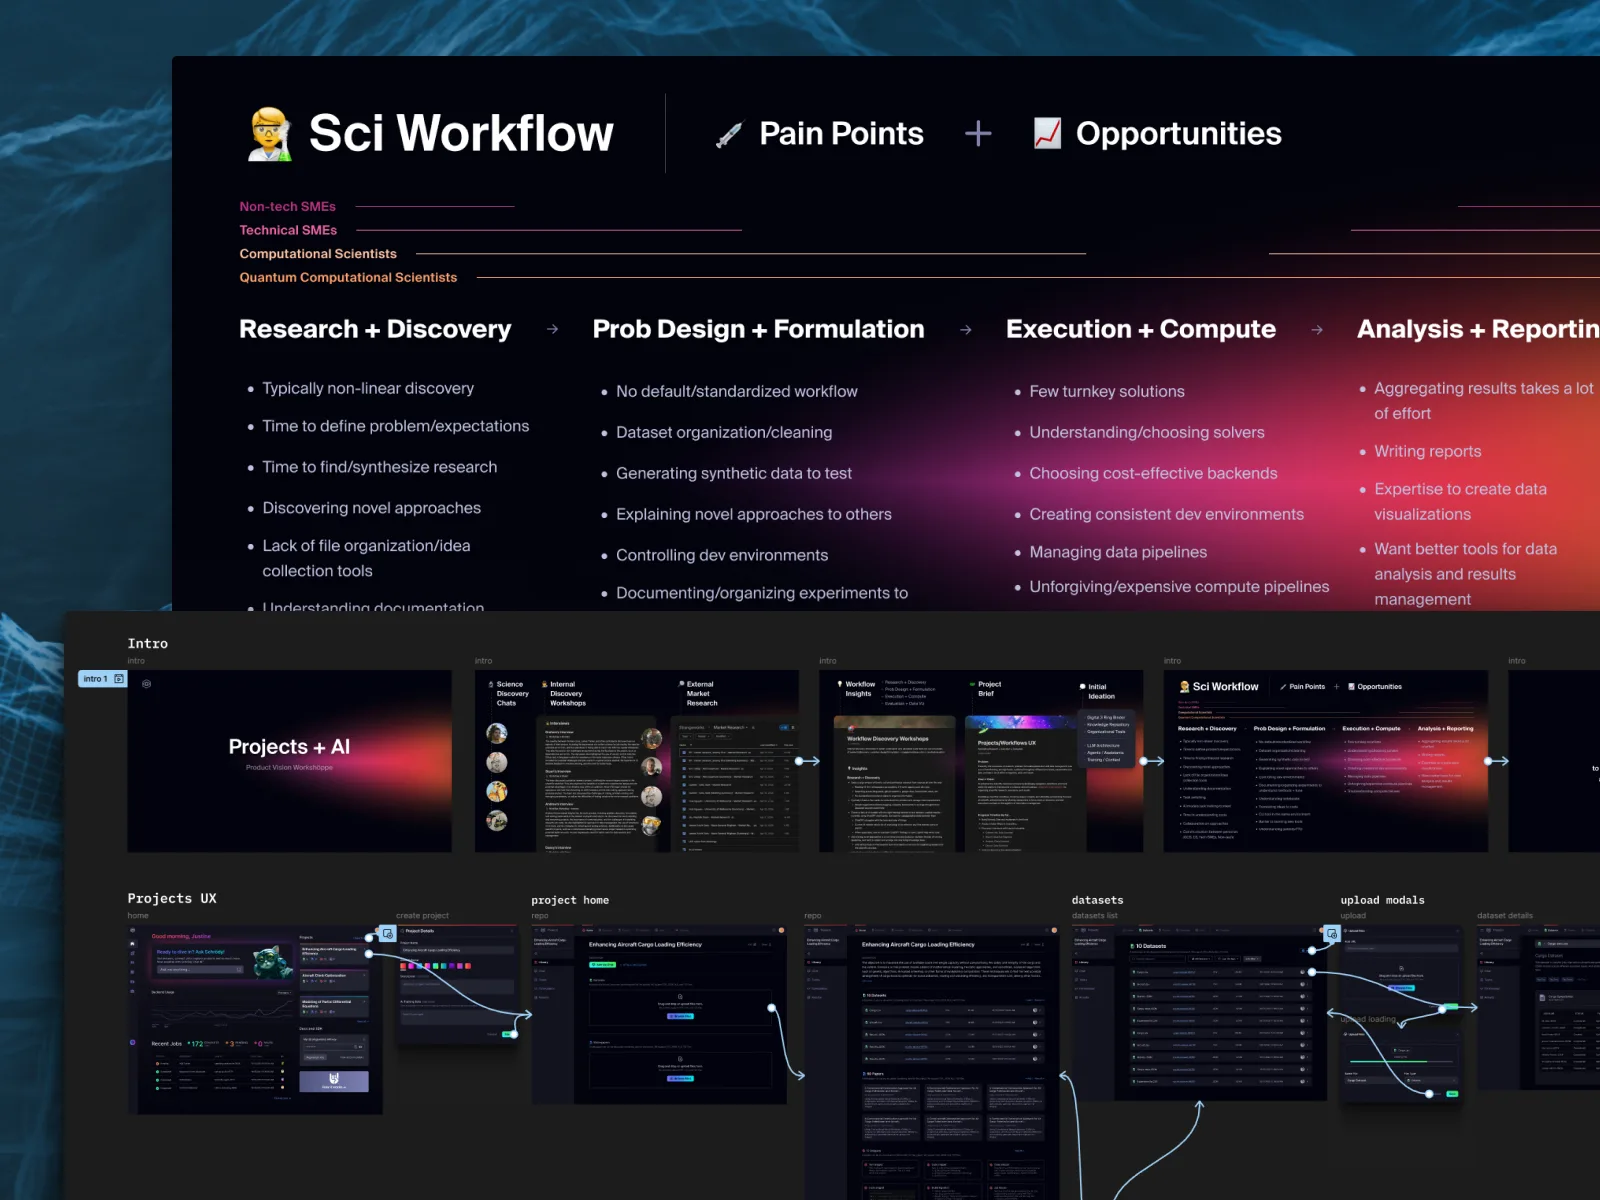
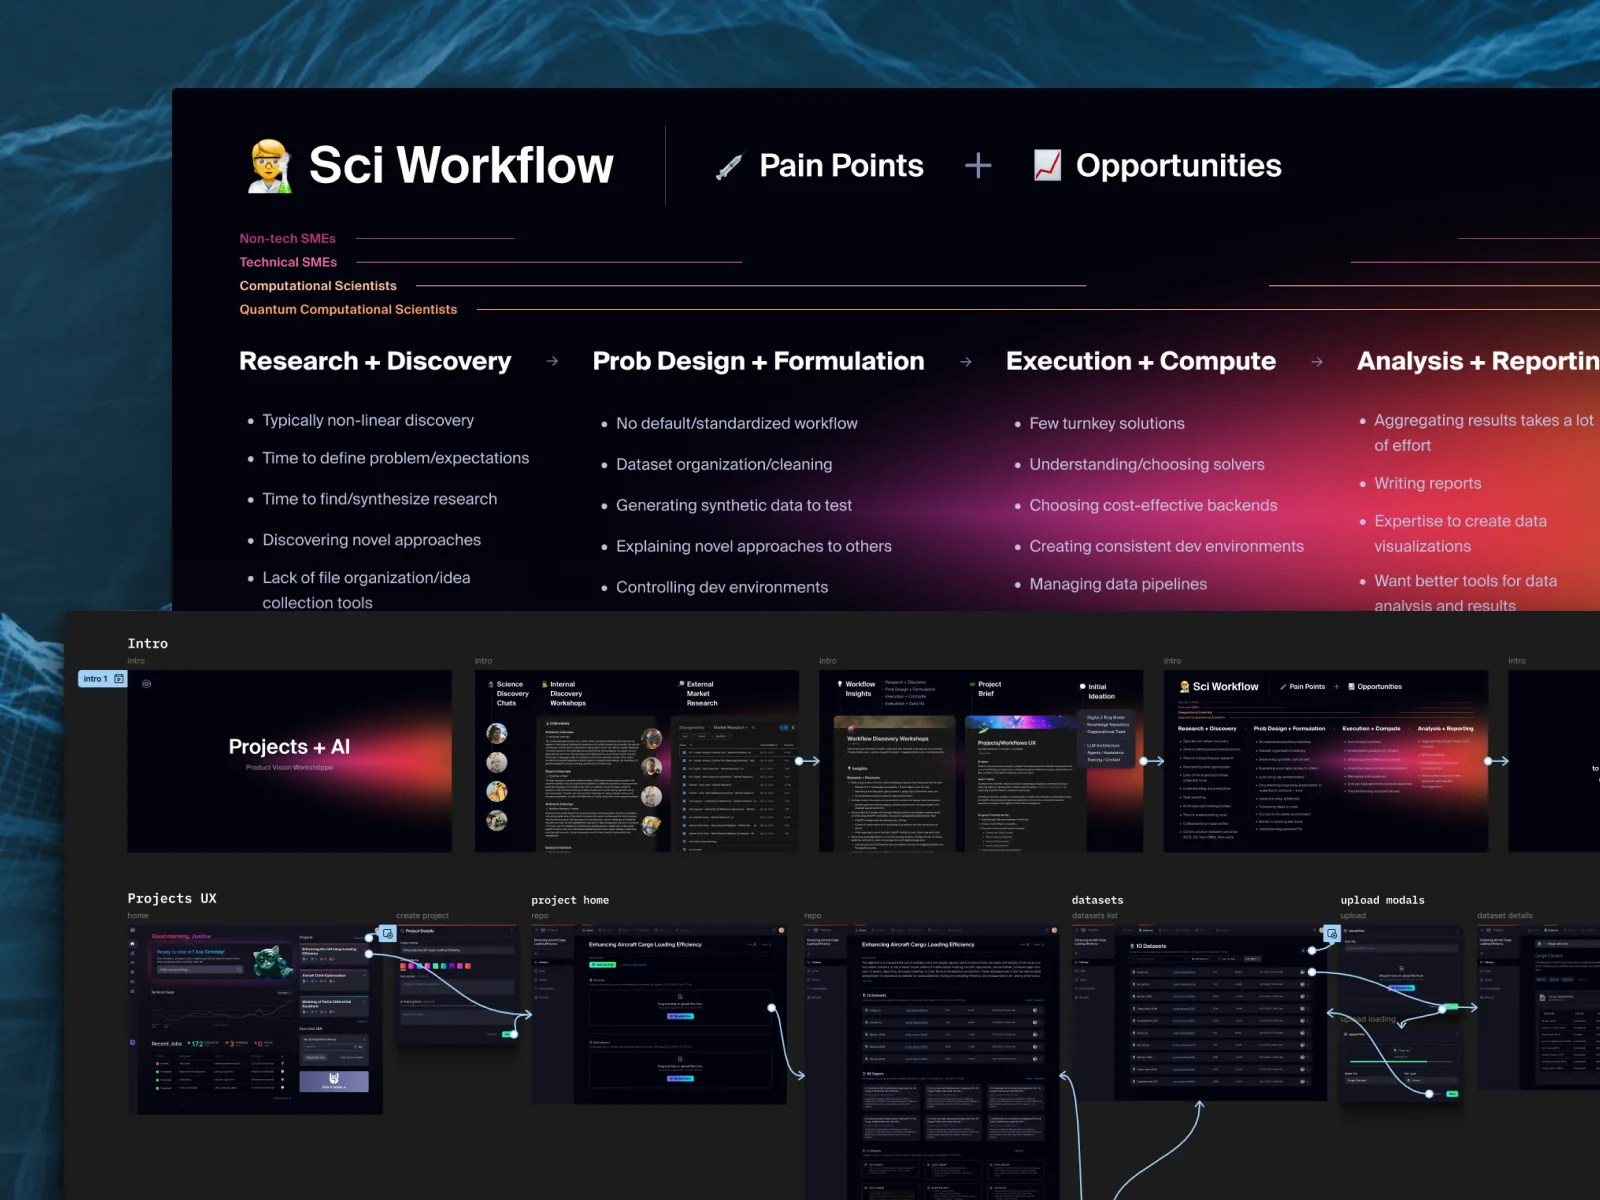
Merge the flow and front-end chapters, tighten the built-for header
The end-to-end flow was an alignment artifact more than a phase of its
own, and the build was already underway beside it, so the two become
one chapter and the page drops to seven. Adds the framed flow comp to
the wireframes pair, and pulls in the tracking and padding on the
built-for header.

Changed region(s): [[0.0938, 0.0308, 1.0, 0.5242]]

diff --git a/components/case-studies/AuraCaseStudy.tsx b/components/case-studies/AuraCaseStudy.tsx
@@ -124,8 +124,8 @@ const AuraCaseStudy = () => {
       <AnimatedSection className="grid grid-cols-1 gap-8 pt-28">
         <div className="col-span-full w-full lg:w-[80%] mx-auto grid grid-cols-1 lg:grid-cols-2 gap-12 items-start">
           <InfoCard>
-            <div className="mb-4 flex items-start justify-between gap-4">
-              <div className="flex items-center gap-4">
+            <div className="mb-3 flex items-start justify-between gap-4">
+              <div className="flex items-center gap-3.5">
                 <Image
                   src="/imgs/dave.jpg"
                   alt="Dave Keller"
@@ -135,16 +135,16 @@ const AuraCaseStudy = () => {
                   priority
                 />
                 <div>
-                  <p className="font-mono text-xs uppercase tracking-[0.3em] text-white/40">
+                  <p className="font-mono text-[0.7rem] uppercase tracking-[0.14em] text-white/40">
                     built for
                   </p>
-                  <h2 className="mt-1 text-xl md:text-2xl font-bold text-white text-balance">
+                  <h2 className="mt-0.5 text-xl md:text-2xl font-bold tracking-tight text-white text-balance">
                     Lucy and the Slalom team
                   </h2>
                 </div>
               </div>
-              <div className="flex shrink-0 flex-col items-end gap-2 pt-0.5">
-                <p className="font-mono text-[0.7rem] uppercase tracking-[0.2em] text-white/35">
+              <div className="flex shrink-0 flex-col items-end gap-1.5">
+                <p className="font-mono text-[0.7rem] uppercase tracking-[0.1em] text-white/35">
                   August 11, 2026
                 </p>
                 <SlalomMark className="h-9 w-auto text-white md:h-11" />
@@ -183,7 +183,7 @@ const AuraCaseStudy = () => {
             </p>
             <div className="w-full border-b-2 border-white/20 mb-6"></div>
             <ul className="list-none space-y-4 w-full">
-              <li className={bullet}>Sketched the narrative first — the same eight beats I&apos;d walk through in an interview</li>
+              <li className={bullet}>Sketched the narrative first — the same seven beats I&apos;d walk through in an interview</li>
               <li className={bullet}>Spun up a git worktree off my portfolio repo and opened a draft PR to work in</li>
               <li className={bullet}>Built it in Next.js, Tailwind, and Framer Motion, designing in Claude Code against a live dev server</li>
               <li className={bullet}>Art-directed the visuals from the original Figma boards and the product repos themselves</li>
@@ -310,68 +310,26 @@ const AuraCaseStudy = () => {
         />
         <CaseImage
           className="col-span-1 lg:col-span-3"
-          src="/imgs/strangeworks/strange2.webp"
-          alt="Figma wireframe and flow template library, zoomed out"
+          src="/imgs/aura/wireframes-flow.webp"
+          alt="Prototype flow board — projects, research and methods, formulation, and solvers"
         />
       </AnimatedSection>
 
       <AnimatedBreak />
 
-      {/* 03 THE END-TO-END FLOW */}
+      {/* 03 THE FLOW AND THE FRONT-END */}
       <AnimatedSection className="grid grid-cols-1 lg:grid-cols-6 gap-12 items-center">
         <ChapterHeader
           index="03"
-          title="the end-to-end flow"
-          kicker="designing an agent-run workflow in Figma, before the models could actually run it"
-        />
-        <div className="col-span-full w-full lg:w-[80%] mx-auto">
-          <ChapterCard
-            asideTitle="what happened"
-            items={[
-              'Designed the full flow: research → definition → formulation → testing → run',
-              'Placed an AI agent alongside the scientist at every step',
-              'Prototyped agent behavior the models could not yet perform',
-              'Pressure-tested the whole journey in Figma before any production code',
-            ]}
-          >
-            <p className="mb-4 text-lg leading-8 text-white/90 text-pretty">
-              That vision carried the team for a good stretch. We moved into Figma and designed
-              it end-to-end: research → problem definition → formulation → testing → compute and
-              run, with an AI agent working the flow alongside the scientist.
-            </p>
-            <p className="text-lg leading-8 text-white/90 text-pretty">
-              This was two years ago, well before the models could do it. Designing an
-              agent-driven workflow then meant prototyping behavior that didn&apos;t exist yet
-              and betting on where it was heading.
-            </p>
-          </ChapterCard>
-        </div>
-        <CaseImage
-          className="col-span-1 lg:col-span-3"
-          src="/imgs/aura/wireframes1.webp"
-          alt="End-to-end flow board — projects, research and methods, formulation, and solvers"
-          label="end-to-end flow"
-        />
-        <CaseImage
-          className="col-span-1 lg:col-span-3"
-          src="/imgs/strangeworks/strange3.webp"
-          alt="Figma flow map of the Aura app — projects, research, and formulation flows"
-        />
-      </AnimatedSection>
-
-      <AnimatedBreak />
-
-      {/* 04 BUILDING IT IN THE FRONT-END */}
-      <AnimatedSection className="grid grid-cols-1 lg:grid-cols-6 gap-12 items-center">
-        <ChapterHeader
-          index="04"
-          title="building it in the front-end"
-          kicker="into the repo with the dev team, as the tooling changed underneath us"
+          title="the flow, then the front-end"
+          kicker="a flow to align everyone, and a repo running right beside it"
         />
         <div className="col-span-full w-full lg:w-[80%] mx-auto">
           <ChapterCard
             asideTitle="my role"
             items={[
+              'Designed the flow end-to-end: research → definition → formulation → testing → run',
+              'Prototyped agent behavior two years before the models could perform it',
               'Design engineer on a team of about ten developers',
               'Led the product vision alongside the build',
               'Built the production UIs in code, not handoffs',
@@ -381,41 +339,46 @@ const AuraCaseStudy = () => {
             ]}
           >
             <p className="mb-4 text-lg leading-8 text-white/90 text-pretty">
-              While the Figma was still warm, the dev team jumped into the app and started
-              building agentic reasoning. I jumped into the code with them. We called them
-              workflows back then.
+              We designed it end-to-end in Figma: research → problem definition → formulation →
+              testing → compute and run, with an AI agent working the flow alongside the
+              scientist. This was two years ago, well before the models could do it —
+              prototyping behavior that didn&apos;t exist yet and betting on where it was headed.
             </p>
             <p className="mb-4 text-lg leading-8 text-white/90 text-pretty">
-              Over that year, the way we built changed underneath us. Early on I was
-              hand-writing HTML and Tailwind, reaching for Cursor in small doses. As Claude Code
-              shipped, I moved into the terminal — and so did the rest of the team.
+              That flow was as much an alignment tool as a spec: one picture marketing and the
+              whole team could refine against. Meanwhile the dev team was already in the app
+              building agentic reasoning, and I was in the code with them. We called them
+              workflows back then.
             </p>
             <p className="text-lg leading-8 text-white/90 text-pretty">
-              We&apos;re about ten developers: AI specialists, backend, full-stack. I was the
-              design engineer and led the product vision — building the UIs in code, structuring
-              the navigation and UX, and evolving the Strangeworks look and feel with our brand
-              designer.
+              Over that year the way we built changed underneath us. Early on I was hand-writing
+              HTML and Tailwind, reaching for Cursor in small doses. As Claude Code shipped I
+              moved into the terminal, and so did the rest of the team. I was the design engineer
+              across about ten developers and led the product vision — building the UIs in code,
+              structuring the navigation and UX, and evolving the Strangeworks look and feel with
+              our brand designer.
             </p>
           </ChapterCard>
         </div>
         <CaseImage
           className="col-span-1 lg:col-span-3"
-          alt="Aura repo — front-end code"
-          note="screenshot — aura repo / early front-end build"
+          src="/imgs/strangeworks/strange3.webp"
+          alt="Figma flow map of the Aura app — projects, research, and formulation flows"
+          label="the flow"
         />
         <CaseImage
           className="col-span-1 lg:col-span-3"
-          alt="Early Aura UI in the browser"
-          note="screenshot — early product UI, iterating in the front-end"
+          alt="Aura running in the front-end"
+          note="drop-in — the front-end build (name it build1)"
         />
       </AnimatedSection>
 
       <AnimatedBreak />
 
-      {/* 05 BETA TESTING & ITERATION */}
+      {/* 04 BETA TESTING & ITERATION */}
       <AnimatedSection className="grid grid-cols-1 lg:grid-cols-6 gap-12 items-center">
         <ChapterHeader
-          index="05"
+          index="04"
           title="beta testing &amp; iteration"
           kicker="our own consultants first, then our clients' science teams"
         />
@@ -457,10 +420,10 @@ const AuraCaseStudy = () => {
 
       <AnimatedBreak />
 
-      {/* 06 AURA 2.0 */}
+      {/* 05 AURA 2.0 */}
       <AnimatedSection className="grid grid-cols-1 lg:grid-cols-6 gap-12 items-center">
         <ChapterHeader
-          index="06"
+          index="05"
           title="aura 2.0 — agents"
           kicker="one agent to get the problem definition right; trained agents do the rest"
         />
@@ -502,10 +465,10 @@ const AuraCaseStudy = () => {
 
       <AnimatedBreak />
 
-      {/* 07 SHIPPED — CLIENT INTERFACES */}
+      {/* 06 SHIPPED — CLIENT INTERFACES */}
       <AnimatedSection className="grid grid-cols-1 lg:grid-cols-6 gap-12 items-center">
         <ChapterHeader
-          index="07"
+          index="06"
           title="shipped — client interfaces"
           kicker="the models have to run a business, so someone has to be able to drive them"
         />
@@ -592,10 +555,10 @@ const AuraCaseStudy = () => {
 
       <AnimatedBreak />
 
-      {/* 08 STRANGE-UI */}
+      {/* 07 STRANGE-UI */}
       <AnimatedSection className="grid grid-cols-1 lg:grid-cols-6 gap-12 items-center">
         <ChapterHeader
-          index="08"
+          index="07"
           title="strange-ui — the design system"
           kicker="building one client interface is a project; building dozens is a system"
         />
